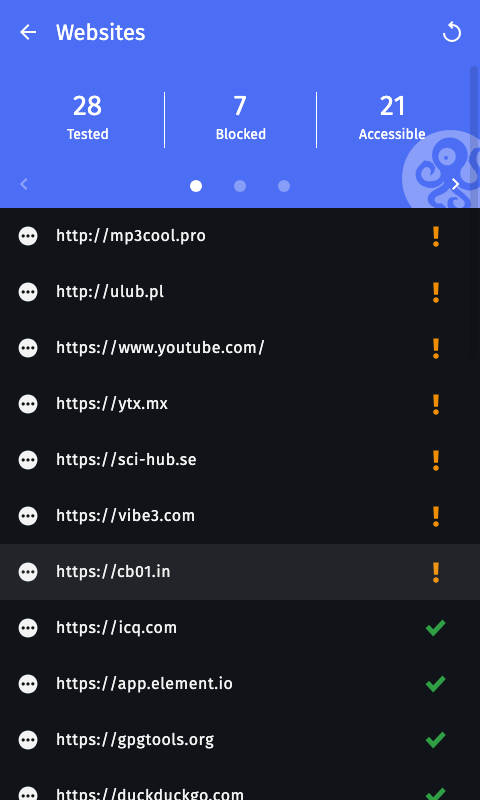
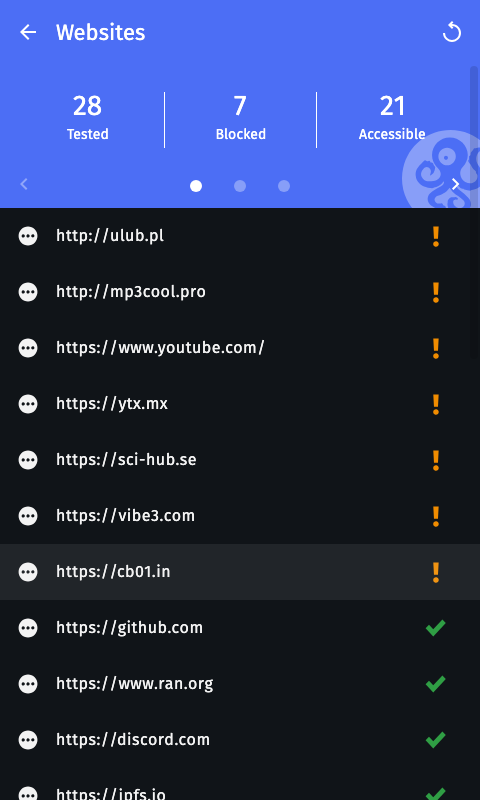
chore: update dependency injection

diff --git a/composeApp/src/desktopMain/kotlin/org/ooni/probe/BuildDependencies.kt b/composeApp/src/desktopMain/kotlin/org/ooni/probe/BuildDependencies.kt
@@ -6,6 +6,8 @@ import dev.dirs.ProjectDirectories
 import kotlinx.coroutines.Dispatchers
 import okio.Path.Companion.toPath
 import org.ooni.engine.DesktopNetworkTypeFinder
+import org.ooni.engine.NetworkTypeFinder
+import org.ooni.engine.OonimkallBridge
 import org.ooni.engine.createDesktopSecureStorage
 import org.ooni.probe.config.OrganizationConfig
 import org.ooni.engine.DesktopOonimkallBridge
@@ -13,6 +15,7 @@ import org.ooni.probe.background.BackgroundWorkManager
 import org.ooni.probe.config.BatteryOptimization
 import org.ooni.probe.config.DesktopLegacyDirectoryManager
 import org.ooni.probe.config.FlavorConfigInterface
+import org.ooni.probe.config.LegacyDirectoryManager
 import org.ooni.probe.config.OptionalFeature
 import org.ooni.probe.config.ProxyConfig
 import org.ooni.probe.data.buildDatabaseDriver
@@ -29,7 +32,7 @@ import java.net.URLEncoder
 import java.nio.charset.StandardCharsets
 import java.util.Locale
 
-private val projectDirectories = ProjectDirectories.from("org", "OONI", "Probe")
+internal val projectDirectories = ProjectDirectories.from("org", "OONI", "Probe")
 private val osName = System.getProperty("os.name")
 val platform = Platform.Desktop(osName)
 
@@ -38,32 +41,53 @@ private val backgroundWorkManager: BackgroundWorkManager = BackgroundWorkManager
     getDescriptorUpdateProvider = { dependencies.fetchDescriptorsUpdates },
 )
 
-val dependencies = Dependencies(
-    platformInfo = buildPlatformInfo(),
-    oonimkallBridge = DesktopOonimkallBridge(),
-    baseFileDir = projectDirectories.dataDir.also { File(it).mkdirs() },
-    cacheDir = projectDirectories.cacheDir.also { File(it).mkdirs() },
-    databaseDriverFactory = { buildDatabaseDriver(projectDirectories.dataDir) },
-    networkTypeFinder = DesktopNetworkTypeFinder(),
-    secureStorage = createDesktopSecureStorage(platform.os, OrganizationConfig.appId, OrganizationConfig.baseSoftwareName),
-    buildDataStore = ::buildDataStore,
-    getBatteryState = { BatteryState.Unknown },
-    startSingleRunInner = backgroundWorkManager::startSingleRun,
-    configureAutoRun = backgroundWorkManager::configureAutoRun,
-    configureDescriptorAutoUpdate = backgroundWorkManager::configureDescriptorAutoUpdate,
-    cancelDescriptorAutoUpdate = backgroundWorkManager::cancelDescriptorAutoUpdate,
-    startDescriptorsUpdate = backgroundWorkManager::startDescriptorsUpdate,
-    launchAction = ::launchAction,
-    batteryOptimization = object : BatteryOptimization {},
-    isWebViewAvailable = { true },
-    legacyDirectoryManager = DesktopLegacyDirectoryManager(platform.os),
-    flavorConfig = DesktopFlavorConfig(),
-    proxyConfig = ProxyConfig(isPsiphonSupported = false),
-    getCountryNameByCode = ::getCountryNameByCode,
-    databaseContext = Dispatchers.IO.limitedParallelism(1),
-)
+val dependencies = buildDependencies(backgroundWorkManager = backgroundWorkManager)
 
-private fun buildPlatformInfo(): PlatformInfo {
+/**
+ * Builds the [Dependencies] graph for the desktop app. Defaults match the production flavor; callers
+ * (e.g. UI/screenshot tests) override only the pieces that need to differ.
+ */
+internal fun buildDependencies(
+    dataDir: String = projectDirectories.dataDir.also { File(it).mkdirs() },
+    cacheDir: String = projectDirectories.cacheDir.also { File(it).mkdirs() },
+    platformInfo: PlatformInfo = buildPlatformInfo(),
+    oonimkallBridge: OonimkallBridge = DesktopOonimkallBridge(),
+    networkTypeFinder: NetworkTypeFinder = DesktopNetworkTypeFinder(),
+    secureStorageAppId: String = OrganizationConfig.appId,
+    dataStoreFile: File = File(dataDir).resolve("probe.preferences_pb"),
+    batteryState: BatteryState = BatteryState.Unknown,
+    backgroundWorkManager: BackgroundWorkManager? = null,
+    isWebViewAvailable: () -> Boolean = { true },
+    launchAction: (PlatformAction) -> Boolean = ::launchAction,
+    legacyDirectoryManager: LegacyDirectoryManager = DesktopLegacyDirectoryManager(platform.os),
+    flavorConfig: FlavorConfigInterface = DesktopFlavorConfig(),
+): Dependencies =
+    Dependencies(
+        platformInfo = platformInfo,
+        oonimkallBridge = oonimkallBridge,
+        baseFileDir = dataDir,
+        cacheDir = cacheDir,
+        databaseDriverFactory = { buildDatabaseDriver(dataDir) },
+        networkTypeFinder = networkTypeFinder,
+        secureStorage = createDesktopSecureStorage(platform.os, secureStorageAppId, OrganizationConfig.baseSoftwareName),
+        buildDataStore = { PreferenceDataStoreFactory.create { dataStoreFile } },
+        getBatteryState = { batteryState },
+        startSingleRunInner = { backgroundWorkManager?.startSingleRun(it) },
+        configureAutoRun = { backgroundWorkManager?.configureAutoRun(it) },
+        configureDescriptorAutoUpdate = { backgroundWorkManager?.configureDescriptorAutoUpdate() ?: false },
+        cancelDescriptorAutoUpdate = { backgroundWorkManager?.cancelDescriptorAutoUpdate() ?: false },
+        startDescriptorsUpdate = { backgroundWorkManager?.startDescriptorsUpdate(it) },
+        launchAction = launchAction,
+        batteryOptimization = object : BatteryOptimization {},
+        isWebViewAvailable = isWebViewAvailable,
+        legacyDirectoryManager = legacyDirectoryManager,
+        flavorConfig = flavorConfig,
+        proxyConfig = ProxyConfig(isPsiphonSupported = false),
+        getCountryNameByCode = ::getCountryNameByCode,
+        databaseContext = Dispatchers.IO.limitedParallelism(1),
+    )
+
+internal fun buildPlatformInfo(): PlatformInfo {
     val osVersion = System.getProperty("os.version")
     val buildName = DesktopBuildConfig.VERSION_NAME
     val buildNumber = DesktopBuildConfig.VERSION_CODE.toString()
@@ -100,15 +124,7 @@ private fun formatBytes(bytes: Long): String {
     return "%.1f GiB".format(gib)
 }
 
-private fun buildDataStore() =
-    PreferenceDataStoreFactory.create {
-        projectDirectories.dataDir
-            .toPath()
-            .resolve("probe.preferences_pb")
-            .toFile()
-    }
-
-private fun launchAction(action: PlatformAction): Boolean =
+internal fun launchAction(action: PlatformAction): Boolean =
     when (action) {
         is PlatformAction.FileSharing -> shareFile(action)
         is PlatformAction.Mail -> sendMail(action)
@@ -186,6 +202,6 @@ private fun buildMailUri(action: PlatformAction.Mail): URI {
     return URI("mailto:${action.to}?subject=$subject&body=$body")
 }
 
-private class DesktopFlavorConfig : FlavorConfigInterface {
+internal class DesktopFlavorConfig : FlavorConfigInterface {
     override val optionalFeatures = setOf(OptionalFeature.CrashReporting)
 }

diff --git a/composeApp/src/desktopTest/kotlin/org/ooni/probe/screenshots/ScreenshotDependencies.kt b/composeApp/src/desktopTest/kotlin/org/ooni/probe/screenshots/ScreenshotDependencies.kt
@@ -1,19 +1,11 @@
 package org.ooni.probe.screenshots
 
-import androidx.datastore.core.DataStore
-import androidx.datastore.preferences.core.PreferenceDataStoreFactory
-import androidx.datastore.preferences.core.Preferences
-import kotlinx.coroutines.Dispatchers
 import org.ooni.engine.NetworkTypeFinder
 import org.ooni.engine.TestOonimkallBridge
-import org.ooni.engine.createDesktopSecureStorage
 import org.ooni.engine.models.NetworkType
-import org.ooni.probe.config.BatteryOptimization
-import org.ooni.probe.config.FlavorConfigInterface
-import org.ooni.probe.config.OptionalFeature
+import org.ooni.probe.buildDependencies
+import org.ooni.probe.config.LegacyDirectoryManager
 import org.ooni.probe.config.OrganizationConfig
-import org.ooni.probe.config.ProxyConfig
-import org.ooni.probe.data.buildDatabaseDriver
 import org.ooni.probe.data.models.BatteryState
 import org.ooni.probe.di.Dependencies
 import org.ooni.probe.shared.Distribution
@@ -21,7 +13,6 @@ import org.ooni.probe.shared.Platform
 import org.ooni.probe.shared.PlatformInfo
 import java.nio.file.Files
 import java.nio.file.Path
-import java.util.Locale
 
 internal fun buildScreenshotDependencies(workingDir: Path): Dependencies {
     val baseFileDir = workingDir.toAbsolutePath().toString()
@@ -30,57 +21,31 @@ internal fun buildScreenshotDependencies(workingDir: Path): Dependencies {
         .toAbsolutePath()
         .toString()
     val osName = System.getProperty("os.name") ?: "Mac"
-    val platform = Platform.Desktop(osName)
 
-    return Dependencies(
-        platformInfo = buildScreenshotPlatformInfo(platform, osName),
-        oonimkallBridge = TestOonimkallBridge(),
-        baseFileDir = baseFileDir,
+    return buildDependencies(
+        dataDir = baseFileDir,
         cacheDir = cacheDir,
-        databaseDriverFactory = { buildDatabaseDriver(baseFileDir) },
+        platformInfo = screenshotPlatformInfo(osName),
+        oonimkallBridge = TestOonimkallBridge(),
         networkTypeFinder = NetworkTypeFinder { NetworkType.Wifi },
-        secureStorage = createDesktopSecureStorage(
-            desktopOS = platform.os,
-            appId = "${OrganizationConfig.appId}.screenshots",
-            baseSoftwareName = OrganizationConfig.baseSoftwareName,
-        ),
-        buildDataStore = { buildScreenshotDataStore(workingDir) },
-        getBatteryState = { BatteryState.NotCharging },
-        startSingleRunInner = { },
-        configureAutoRun = { },
-        configureDescriptorAutoUpdate = { false },
-        cancelDescriptorAutoUpdate = { false },
-        startDescriptorsUpdate = { },
+        secureStorageAppId = "${OrganizationConfig.appId}.screenshots",
+        dataStoreFile = workingDir.resolve("probe.preferences_pb").toFile(),
+        batteryState = BatteryState.NotCharging,
+        backgroundWorkManager = null,
         isWebViewAvailable = { false },
         launchAction = { false },
-        batteryOptimization = object : BatteryOptimization {},
-        flavorConfig = ScreenshotFlavorConfig,
-        proxyConfig = ProxyConfig(isPsiphonSupported = false),
-        getCountryNameByCode = ::countryNameByCode,
-        databaseContext = Dispatchers.IO.limitedParallelism(1),
+        legacyDirectoryManager = object : LegacyDirectoryManager {},
+        // flavorConfig keeps the default DesktopFlavorConfig: it mirrors the production
+        // direct-distribution build, so Privacy / crash-reporting render like the Android shots.
     )
 }
 
-private object ScreenshotFlavorConfig : FlavorConfigInterface {
-    // Mirror the production direct-distribution build so Privacy / crash-reporting
-    // settings render the same way the Android screenshots show them.
-    override val optionalFeatures: Set<OptionalFeature> = setOf(OptionalFeature.CrashReporting)
-}
-
-private fun buildScreenshotDataStore(workingDir: Path): DataStore<Preferences> {
-    val file = workingDir.resolve("probe.preferences_pb").toFile()
-    return PreferenceDataStoreFactory.create(produceFile = { file })
-}
-
-private fun buildScreenshotPlatformInfo(
-    platform: Platform.Desktop,
-    osName: String,
-): PlatformInfo {
+private fun screenshotPlatformInfo(osName: String): PlatformInfo {
     val osVersion = System.getProperty("os.version") ?: ""
     return PlatformInfo(
         buildName = "screenshots",
         buildNumber = "0",
-        platform = platform,
+        platform = Platform.Desktop(osName),
         osVersion = "$osName $osVersion".trim(),
         model = "",
         requestNotificationsPermission = false,
@@ -94,11 +59,3 @@ private fun buildScreenshotPlatformInfo(
         installerStore = Distribution.current.name,
     )
 }
-
-private fun countryNameByCode(code: String): String =
-    Locale
-        .Builder()
-        .setRegion(code)
-        .build()
-        .displayCountry
-        .ifEmpty { code }